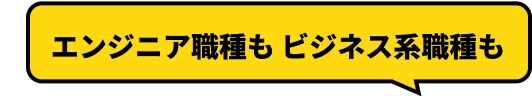
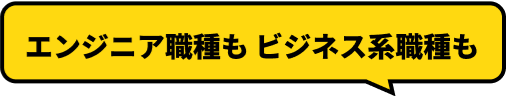
fix 画像とcssの修正＆alt記述

diff --git a/src/pages/index.tsx b/src/pages/index.tsx
@@ -11,22 +11,19 @@ export default function Home() {
       footer={<footer className={styles.footer}></footer>}
     >
       <section className={Company.company_section}>
-        <div id="title" className={Company.title_img}>
-          <img src="/company_title_img.png" alt="" />
+        <div className={Company.title_img}>
+          <img src="/company_title_img.png" alt="企業様の声" />
         </div>
 
         <div className={Company.company_section_content}>
-          <div id="flex" className={Company.comment_wrap}>
-            <div id="relative" className={Company.recruiter_introduction}>
-              <div
-                id="absolute サイバーエージェント新卒採用メンバー"
-                className={Company.recruiter_introduction_badge}
-              >
+          <div className={Company.comment_wrap}>
+            <div className={Company.recruiter_introduction}>
+              <div className={Company.recruiter_introduction_badge}>
                 <img src="/company_name.png" alt="" />
               </div>
-              <div id="flex" className={Company.recruiter_introduction_detail}>
+              <div className={Company.recruiter_introduction_detail}>
                 <div className={Company.recruiter_introduction_detail_img}>
-                  <img src="/company_recruiter.png" alt="" />
+                  <img src="/company_recruiter.png" alt="平山拓己氏の顔写真" />
                 </div>
 
                 <div className={Company.recruiter_introduction_detail_text}>
@@ -49,21 +46,25 @@ export default function Home() {
             </div>
           </div>
 
-          <div id="コメント" className={Company.recruiter_comment_overview}>
+          <div className={Company.recruiter_comment_overview}>
             <div className={Company.recruiter_comment_highlight_sp}>
-              <img src="/company_comment.png" alt="" />
+              <img src="/company_comment.png" alt="平山さんのコメント" />
             </div>
             <p>
               エンジニア職種にとどまらず、全てのビジネスマンにWebの知識は必須になっています。就活生のエントリーシートに、プログラミングを用いた個人の成果物があった場合、必ず目を通しますね。どの職種でもアドバンテージになると思います。TOEICだと数字でしか判断ができないのですが、個人ごとのWebの成果物の場合「なぜそのアプリケーションを作成したのか？」まで見ることができるため、ビジネス観点まで考察することができます。また、Webの知識を得た上でビジネスマンになることは、ポジティブでしかないと思います。
             </p>
           </div>
         </div>
-        <div id="relative" className={Company.company_survey_result}>
-          <div id="absolute balloon" className={Company.balloon_img}>
-            <img src="/company_balloon.png" alt="" className={Company.pc_ver} />
+        <div className={Company.company_survey_result}>
+          <div className={Company.balloon_img}>
+            <img
+              src="/company_balloon.png"
+              alt="エンジニア職種もビジネス系職種も"
+              className={Company.pc_ver}
+            />
             <img
               src="/company_balloon_sp.png"
-              alt=""
+              alt="エンジニア職種もビジネス系職種も"
               className={Company.sp_ver}
             />
           </div>

diff --git a/src/styles/scss/module/company.module.scss b/src/styles/scss/module/company.module.scss
@@ -41,7 +41,6 @@
   margin-top: 100px;
 
   @include mq(sp) {
-    max-width: 1300px;
     width: 100%;
     margin-top: 26.6666666667vw;
     margin-left: auto;
@@ -153,10 +152,9 @@
   @include mq(sp) {
     translate: 0 -100%;
     top: 0;
-    left: 21.3333333333vw;
+    left: 21vw;
     width: 8vw;
     height: 8vw;
-    -webkit-clip-path: polygon(100% 100%, 0 1%, 0 100%);
     clip-path: polygon(100% 100%, 0 1%, 0 100%);
   }
 }
@@ -164,7 +162,7 @@
 .recruiter_comment_overview {
   position: relative;
   z-index: 1;
-  background-color: white;
+  background-color: #fff;
   border: 3px solid #000;
   box-shadow: 8px 8px 0 #3072f2;
   border-radius: 4px;
@@ -183,7 +181,7 @@
   p {
     font-size: 1.8rem;
     @include mq(sp) {
-      font-size: 3.7333333333vw;
+      font-size: 3.7vw;
     }
   }
 }
@@ -196,8 +194,8 @@
 
   @include mq(sp) {
     width: 100%;
-    margin-top: 21.3333333333vw;
-    padding: 0 5.3333333333vw;
+    margin-top: 21vw;
+    padding: 0 5vw;
   }
 
   .balloon_img {
@@ -214,7 +212,7 @@
   }
 
   h3 {
-    color: white;
+    color: #fff;
     text-align: center;
     font-weight: 700;
     line-height: 1.5;
